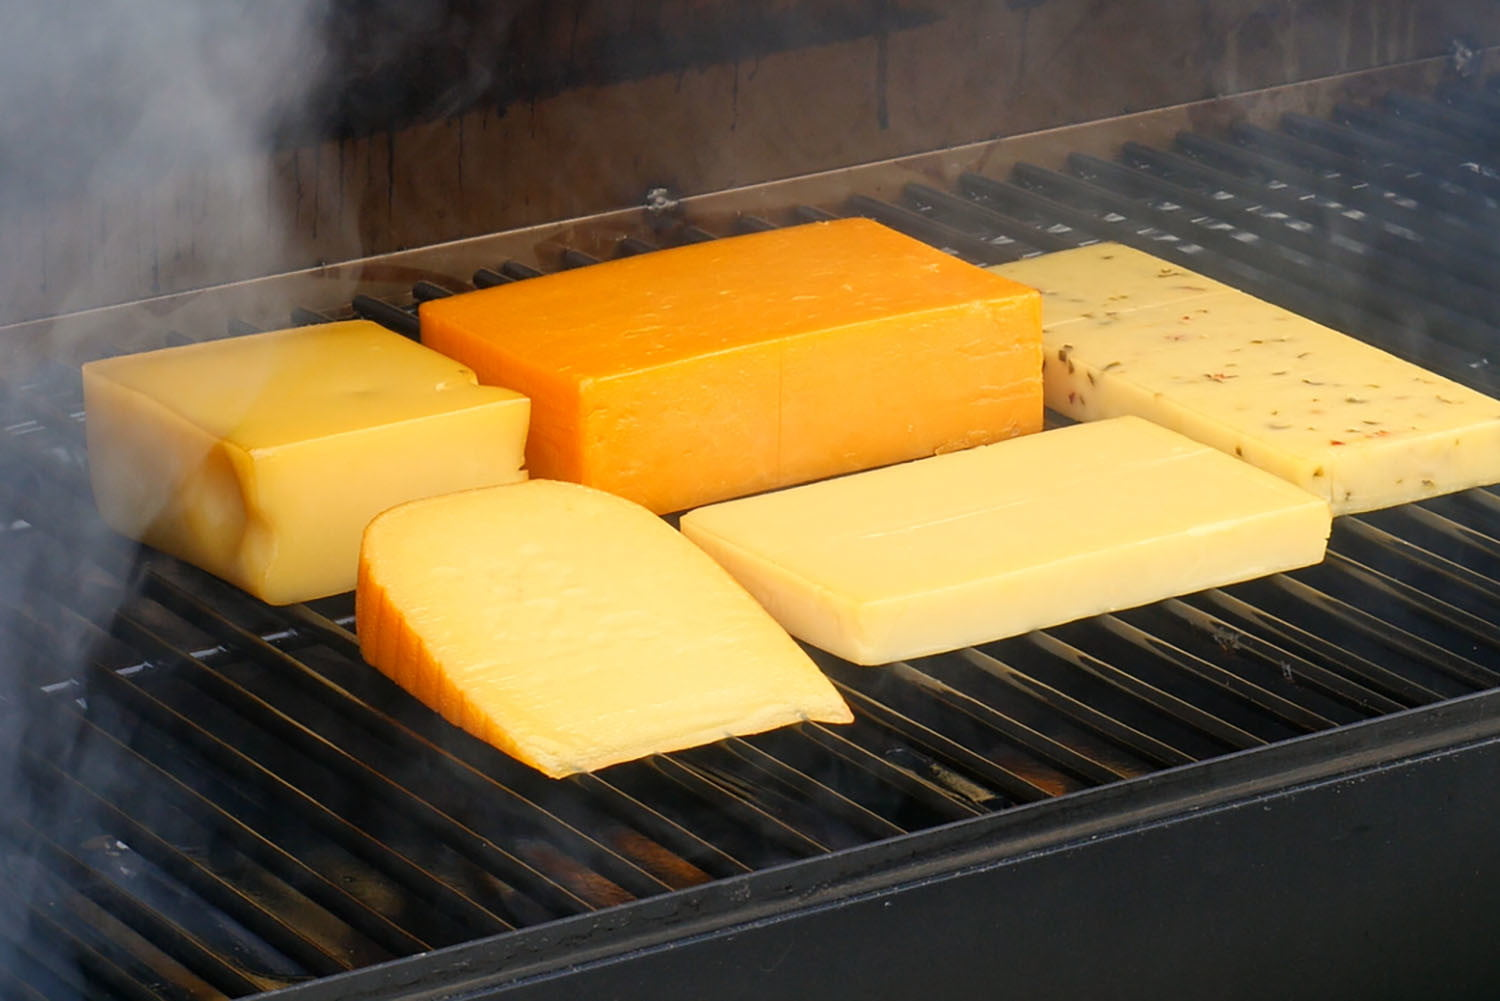
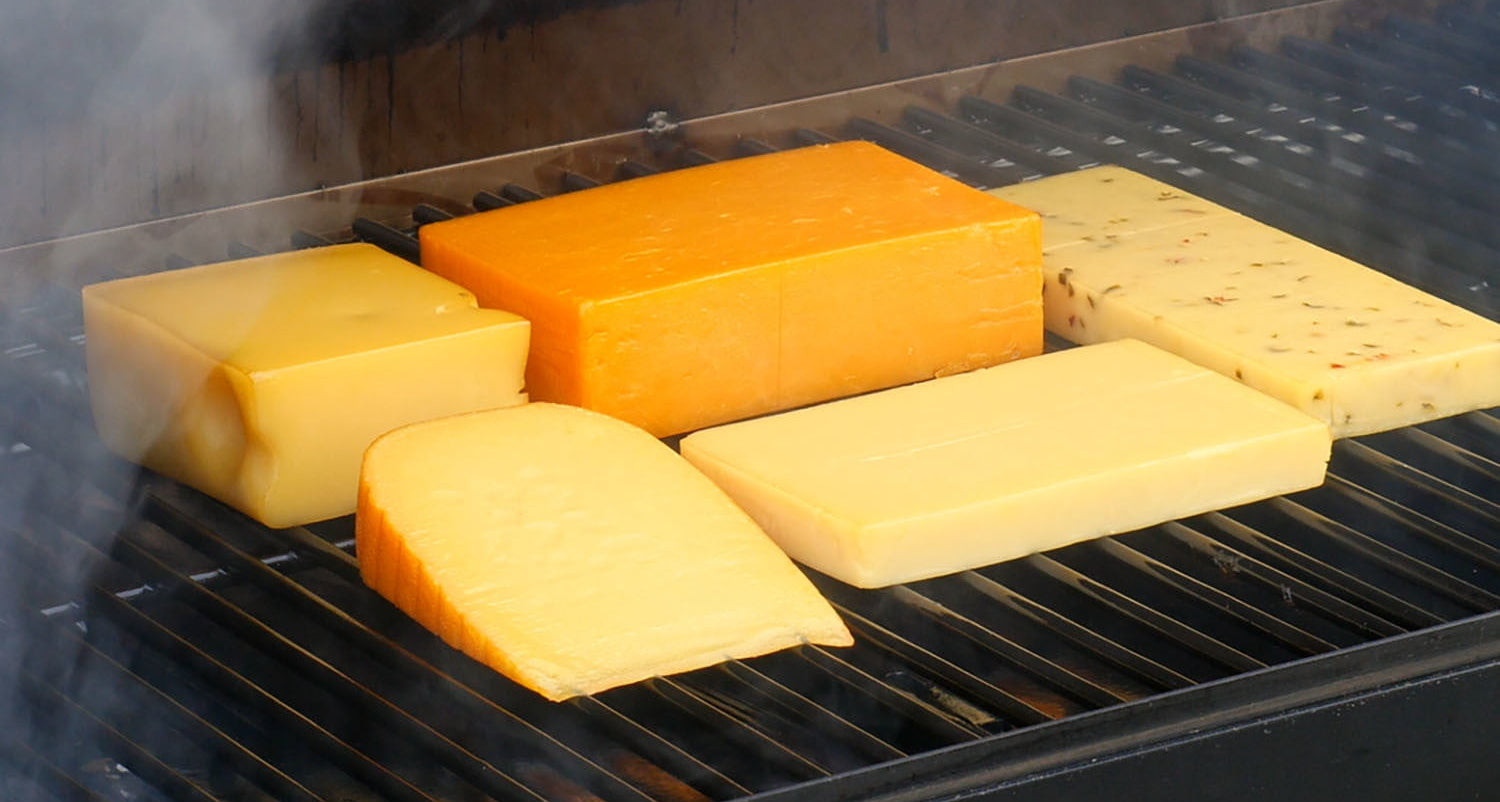
Reduce height of header image

diff --git a/docs/stylesheets/extra.css b/docs/stylesheets/extra.css
@@ -15,5 +15,5 @@
     background-image: url(../images/header.jpg);
     background-repeat: no-repeat;
     background-size: cover;
-    height: 400px;
+    height: 300px;
 }
